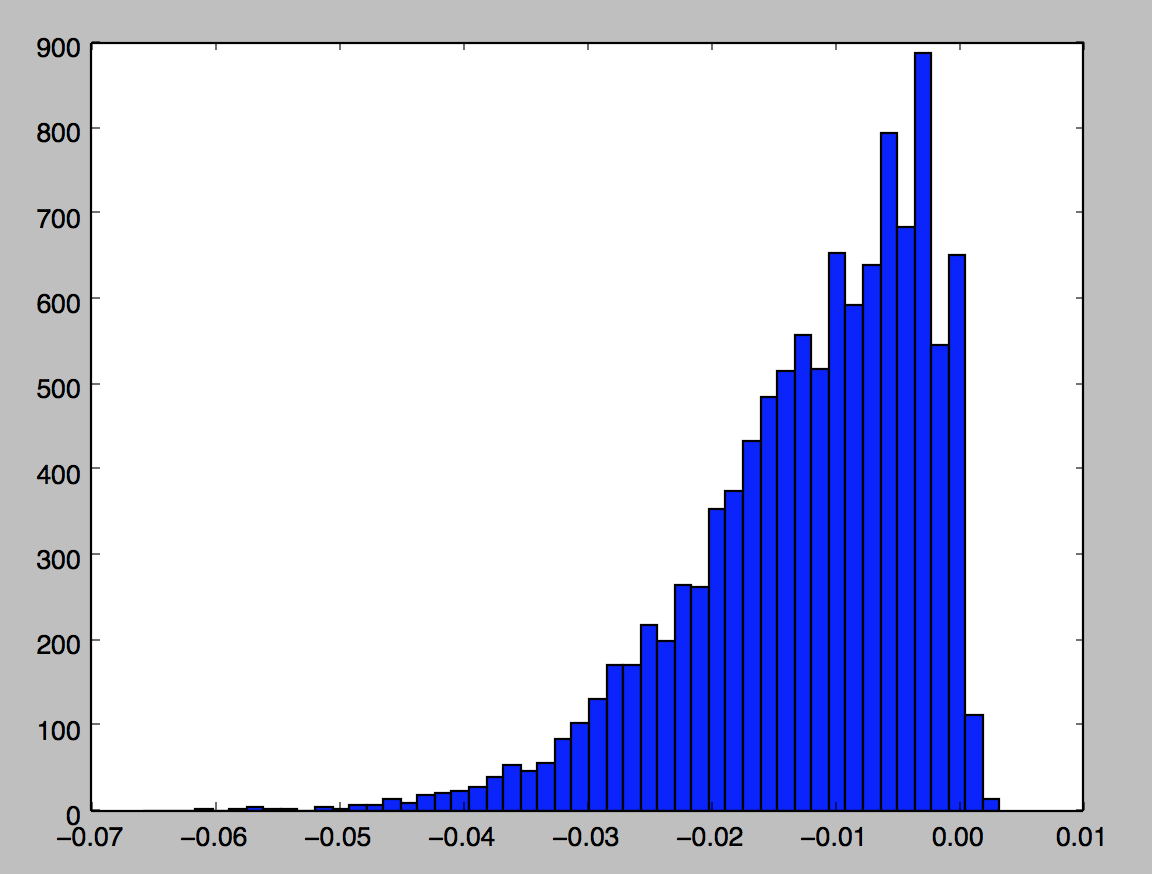
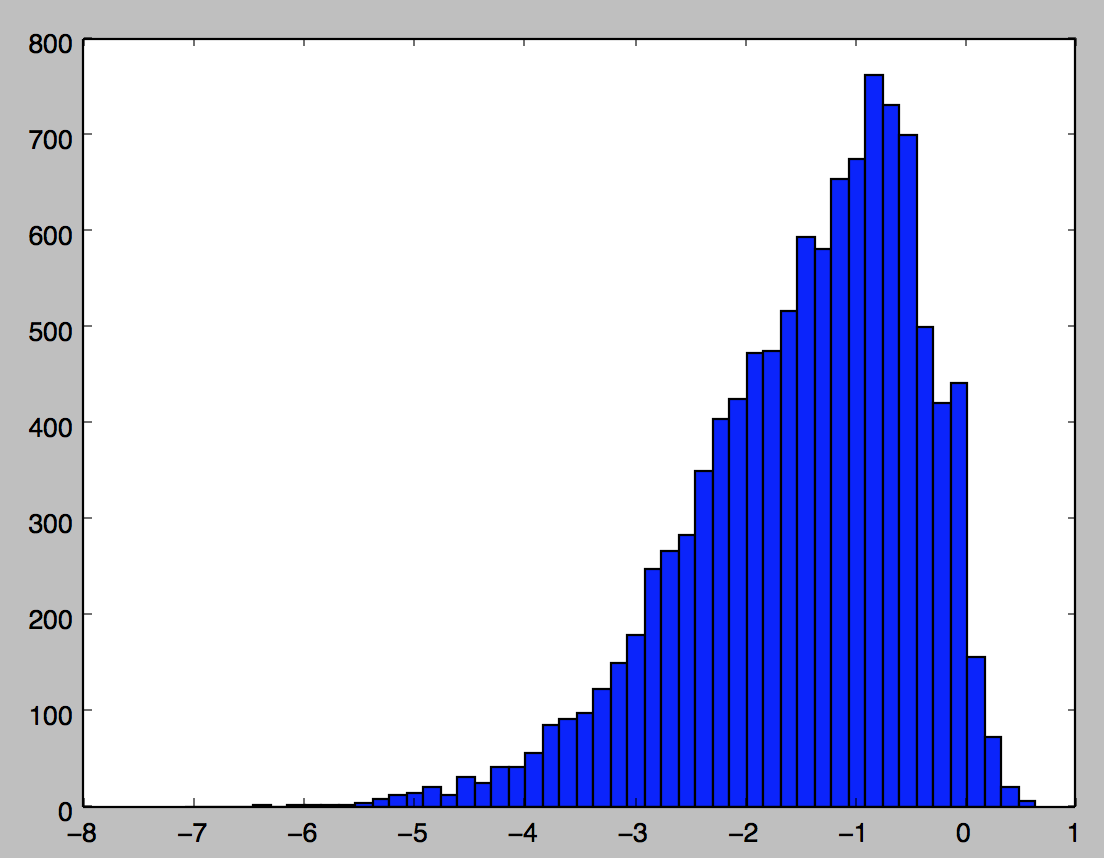
First draft of third QandA post

Changed region(s): [[0.0308, 0.0303, 0.9855, 1.0]]

diff --git a/_posts/2015-05-07-qanda-tweets3.md b/_posts/2015-05-07-qanda-tweets3.md
@@ -7,3 +7,17 @@ image:
 ---
 
 In the [previous](http://www.clintonboys.com/qanda-tweets/) [two](http://www.clintonboys.com/qanda-tweets2/) posts in this series, I came up with a method of scoring the sentiment of tweets from the Q&A program. I now want to put all these pieces together to try and get a feel for the political leanings of Twitter users watching the program. 
+
+The big problem with this analysis, as I said in the last two posts, is that most tweets are negative, so even the positive tweets are comprised of words with negative sentiment. 
+
+![Sentiment scatter](https://github.com/clintonboys/clintonboys.github.io/blob/master/_posts/sent_scatter.png?raw=true)
+
+This diagram shows the real problem; of the 764 tweets I hand-classified as positive or negative, using the basic calculation from the previous post, it's very difficult to separate them by their sentiment score alone. However, if we include **two** variables, namely 
+
+`NormalisedSentiment`: sum of all sentiments for words in the corpus in the tweet, divided by the total number of words in the tweet
+
+`NegativePercentage`: number of words with a sentiment less than zero, divided by the total number of words in the tweet
+
+If we do a scatter plot of these two variables and color by classification (blue is positive, red is negative), we get the following picture:
+
+![Sentiment scatter 2](https://github.com/clintonboys/clintonboys.github.io/blob/master/_posts/sent_scatter2.png?raw=true)

diff --git a/_posts/2015-04-30-qanda-tweets2.md b/_posts/2015-04-30-qanda-tweets2.md
@@ -87,7 +87,7 @@ I classified 1000 tweets from the first broadcast, which gave me a corpus of ove
     scores_list = []
     for tweet in tweets:
         if type(GetSentiment(tweet)) is np.int64:
-            scores_list.append(float(GetSentiment(tweet))/float(len(tweets)))
+            scores_list.append(float(GetSentiment(tweet))/float(len(tweet)))
 
     plt.hist(scores_list,bins = 50)
     plt.show()
